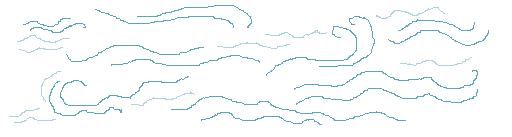
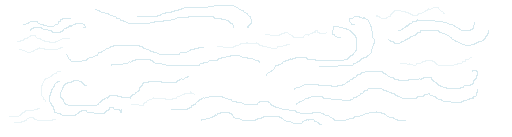
improved pond and water sprites, changed speeds

diff --git a/src/scene2/tadpoles.js b/src/scene2/tadpoles.js
@@ -10,6 +10,7 @@ import { Yay } from "./yay";
 const debugme = true;
 
 let track = new Track("public/audio/pollywogsong.wav", [2, 4, 6, 8, 10, 12, 14, 16]);
+let everyone = [];
 
 export const Start = () => { 
 
@@ -21,19 +22,20 @@ export const Start = () => {
     
     let yay = new Yay(); // text messages
 
-    for (let n=0; n<10; n++) {
+    for (let n=0; n<16; n++) {
         let splash = new Water();
     }
 
 	for (let n=0; n<16; n++) {
         let tad = new Pollywog();
+        everyone.push(tad);
     }
 	
-	for (let n=0; n<6; n++) {
+	for (let n=0; n<12; n++) {
         let pad = new Lillypad();
     }
 
-	for (let n=0; n<6; n++) {
+	for (let n=0; n<12; n++) {
         let sprig = new Grass();
     }
 };
@@ -46,6 +48,27 @@ export const IsPaused = () => {
     track.Stop();
   };
   
-  export const IsUnPaused = () => {
+export const IsUnPaused = () => {
     track.Continue();
-  };
+};
+
+var totalhits = 0;
+// good timing - success
+track.Events.on("Hit", e => {
+    console.log("HIT #" + totalhits);
+    totalhits += 1;
+    // everyone gets a speed boost!
+    for (let n=0; n<everyone.length; n++) {
+        everyone[n].speed += Math.random() * 0.1;
+    }    
+});
+
+// off beat - fail
+track.Events.on("Miss", e => {  
+    console.log("MISS!");
+});
+
+//ending
+track.Events.on("Ended", (e) => {
+    console.log("track has eneded!");
+});

diff --git a/src/scene2/pollywog.js b/src/scene2/pollywog.js
@@ -20,7 +20,7 @@ export class Pollywog {
     
     constructor() {
         this.spr = new Sprite(pollywogSprite, 2, 1);
-        this.accel = 0.01; // per frame
+        this.accel = 0; // we only speed up via player input onHit (was 0.01 per frame)
         this.spawnY = 20+Math.random()*100;
         this.speed = Math.random() / 2; // start slowish
         this.spr.x = -50 + Math.random()*-300;
@@ -33,8 +33,11 @@ export class Pollywog {
 		this.angle = Math.cos(this.age/1000)*2*Math.PI; // swim in a circle
 		this.angle += Math.cos(this.age/33)*0.1; // and wobble back and forth
 		this.speed += this.accel; // grow stronger over time
+        
+        // (rounded so there are no antialiased pixels)
         this.spr.x += this.speed; // move
-        this.spr.y = this.spawnY + Math.cos((this.spr.x+this.spawnY)/20)*8; // wobble
+        this.spr.y = Math.round(this.spawnY + Math.cos((this.spr.x+this.spawnY)/20)*8); // wobble 
+        
         if (this.spr.x > 320) this.spr.x = -200; // wrap
         //console.log('pollywog moves to ' + this.spr.x + ',' + this.spr.y);
 	};

diff --git a/src/scene2/lillypad.js b/src/scene2/lillypad.js
@@ -11,17 +11,17 @@ export class Lillypad {
     
     constructor() {
         this.spr = new Sprite(lillypadSprite, 1, 1);
-        this.spawnY = -32+Math.random()*32;
-        this.speed = -Math.random();
+        this.spawnY = -24+Math.random()*48;
+        this.speed = -Math.random()/2 -0.1;
         this.spr.x = -640 + Math.random()*1280;
         this.spr.y = this.spawnY;
         addUpdate(this.update);
     }
 
     update = () => {
-		this.speed -= 0.01; // move left faster amd faster
+		//this.speed -= 0.01; // move left faster amd faster
         this.spr.x += this.speed; // move
-        this.spr.y = this.spawnY + Math.cos(this.spr.x/20)*3; // wobble
+        this.spr.y = Math.round(this.spawnY + Math.cos(this.spr.x/20)*3); // wobble
         if (this.spr.x > 640) this.spr.x = -640; // wrap
         if (this.spr.x < -640) this.spr.x = 640; // wrap
 	};

diff --git a/src/scene2/grass.js b/src/scene2/grass.js
@@ -12,16 +12,16 @@ export class Grass {
     constructor() {
         this.spr = new Sprite(grassSprite, 1, 1);
         this.spawnY = 50+Math.random()*100;
-        this.speed = -Math.random();
+        this.speed = -Math.random()/2-0.1;
         this.spr.x = -640 + Math.random()*1280;
         this.spr.y = this.spawnY;
         addUpdate(this.update);
     }
 
     update = () => {
-		this.speed -= 0.01;
+		//this.speed -= 0.01; // accel
         this.spr.x += this.speed; // move
-        this.spr.y = this.spawnY + Math.cos(this.spr.x/20)*0; // wobble
+        //this.spr.y = Math.round(this.spawnY + Math.cos(this.spr.x/20)*0); // wobble
         if (this.spr.x > 640) this.spr.x = -640; // wrap
         if (this.spr.x < -640) this.spr.x = 640; // wrap
 	};

diff --git a/src/scene2/water.js b/src/scene2/water.js
@@ -12,14 +12,14 @@ export class Water {
     constructor() {
         this.spr = new Sprite(waterSprite, 1, 1);
         this.spawnY = -32+Math.random()*128;
-        this.speed = -Math.random();
+        this.speed = -Math.random()/2-0.1;
         this.spr.x = -640 + Math.random()*1280;
         this.spr.y = this.spawnY;
         addUpdate(this.update);
     }
 
     update = () => {
-		this.speed -= 0.01; // grow stronger over time
+		//this.speed -= 0.01; // grow stronger over time
         this.spr.x += this.speed; // move
         this.spr.y = this.spawnY + Math.cos(this.spr.x/40)*4; // wobble
         if (this.spr.x > 640) this.spr.x = -640; // wrap
